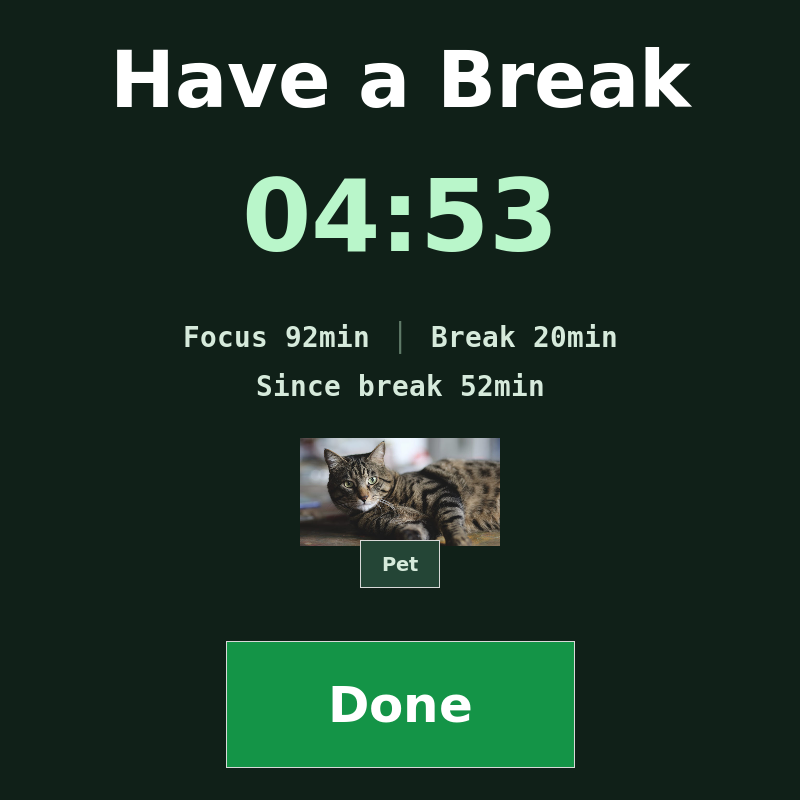
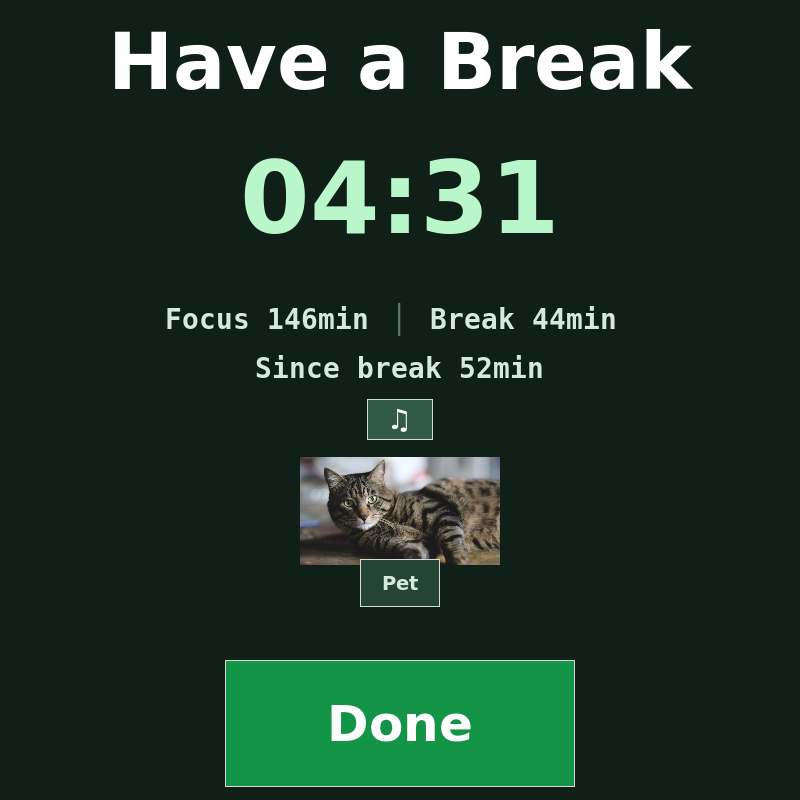
Add local relax music and break volume controls

diff --git a/README.md b/README.md
@@ -21,6 +21,8 @@ Work with a quiet, always-on-top clock. When the session ends, Focus2 fills the 
 3. **Pet the cat.** Click the cat or **Pet** to settle it, silence its reminders, and mute the default audio output. **Unpet** restores audio if Focus2 muted it.
 4. **Continue when you choose.** **Done** starts the next focus session. If you leave within the first minute, Focus2 offers a shorter one-time focus period. You can also adjust the remaining break time by clicking its countdown.
 
+Breaks can also play a local relax track automatically. Click the small **♫** button between the stats and the cat to switch it on or off. Right-click it to set the relax track's volume with a slider; that setting affects only this track and is remembered. The track stops before your earlier music resumes. Evening auto-pet still quiets the cat's reminders while break music is enabled.
+
 <div align="center">
   <img src="docs/images/focus-timer.png" alt="Focus2 compact circular focus timer" width="300">
   &nbsp;&nbsp;
@@ -51,11 +53,13 @@ Then run it from this directory with your preferred focus duration in minutes:
 
 The cat images and sound are loaded beside the `focus2` script, so keep those files together. The timer can run without the optional media tools, but these enable the full experience:
 
+To add personal break music, place an MP3 beside `focus2` with a name beginning `relax-01 - `. Number later tracks `relax-02 - `, `relax-03 - `, and so on. Focus2 currently loops the first numbered track during breaks; these personal music files are kept out of Git.
+
 | Tool | What it adds |
 | --- | --- |
 | `playerctl` | Pauses playing MPRIS media during a break and resumes the players Focus2 paused when you finish it. |
-| `pactl` | Mutes the default output when you pet the cat and restores its previous audible state when you unpet it. |
-| `cvlc` or `ffplay` | Plays the bundled cat reminder sound after the break countdown reaches zero. |
+| `pactl` | Mutes the default output when you pet the cat, restores its previous audible state when you unpet it, and adjusts only the relax track's stream volume. |
+| `cvlc` or `ffplay` | Plays the bundled cat reminder sound and a local break music track. |
 
 ## Controls
 
@@ -64,6 +68,7 @@ The cat images and sound are loaded beside the `focus2` script, so keep those fi
 | Focus dial | Click to open quick settings, set the minutes left, resize the clock, or start a break immediately. |
 | Break countdown | Click to set a different remaining break length. |
 | Cat or **Pet** button | Pet or unpet the cat. |
+| Break music button | Left-click to toggle the relax track; right-click to set its volume. |
 | **Done** button | Finish the break and return to focus. |
 | Command line | Use `./break-control` to inspect or control the running timer. |
 
